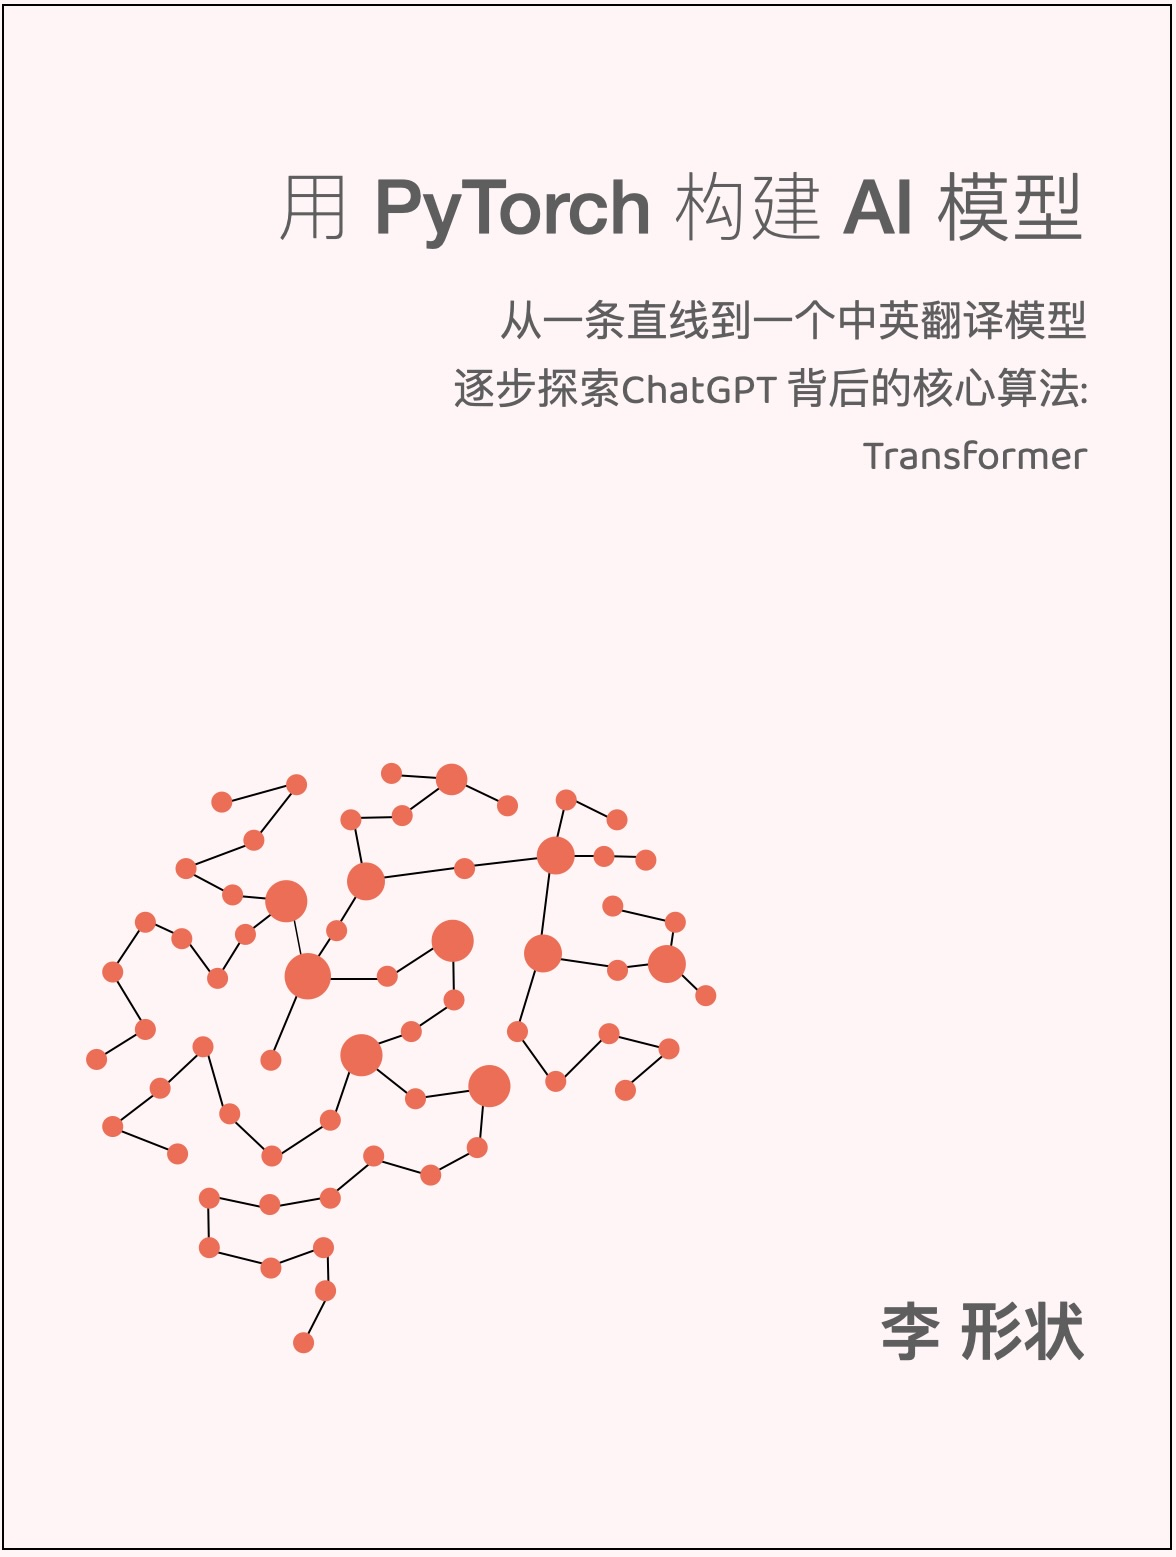
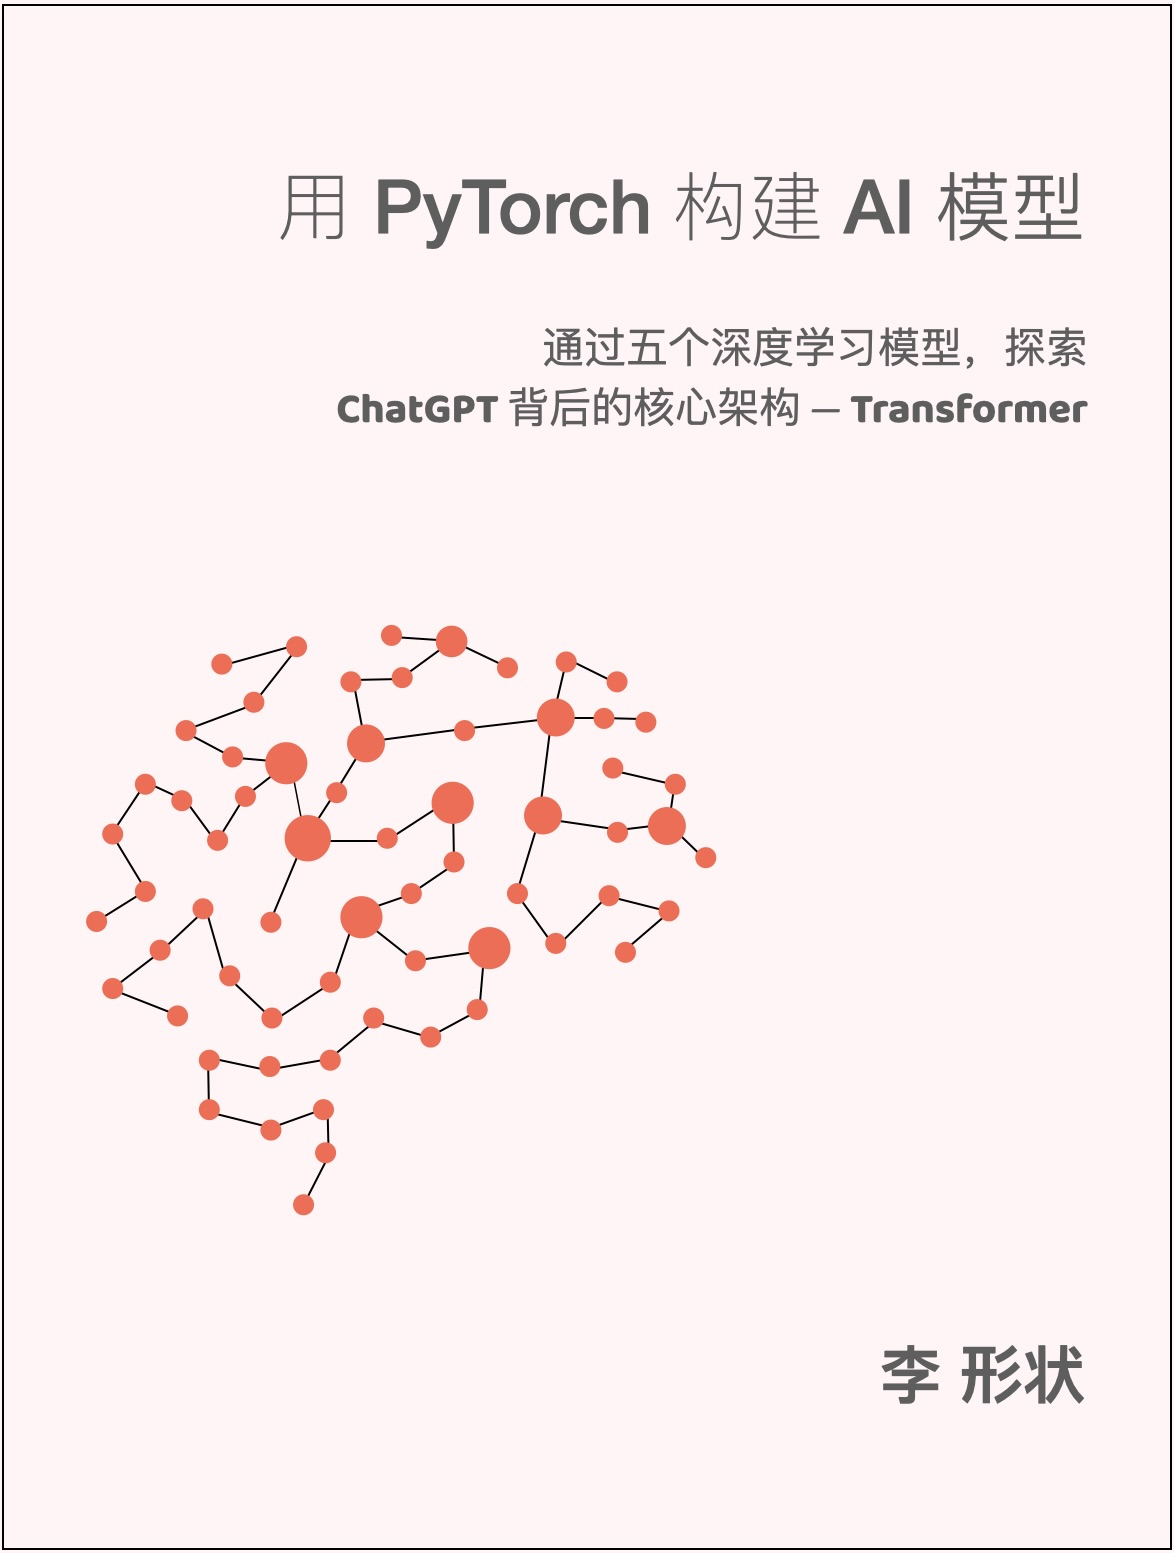
svg log changing

diff --git a/src/data/covers_ch.ts b/src/data/covers_ch.ts
@@ -9,7 +9,7 @@ export default [
   },
   { id: 1,
     name: "章节 1: 张量",
-    quote: "麦克斯韦方程组..., 当使用时间作为第四维来重新书写时，这组相对复杂的八个方程就会简化为一个单一的张量方程。这就是物理学家所说的 ‘美’。", 
+    quote: "麦克斯韦方程组...，当使用时间作为第四维来重新书写时，这组相对复杂的八个方程就会简化为一个单一的张量方程。这就是物理学家所说的 ‘美’。", 
     author: "― 加來 道雄，物理学家",
     image: "src/assets/tesseract.jpg",
     title: "一个四维立方体（或称为超立方体）的模型 | Robert Brook/Science Photo Library Art", 
@@ -50,7 +50,7 @@ export default [
   { id: 6,
     name: "章节 6: 一个卷积神经网络模型",
     quote: "婴儿在学会说话之前先学会观察世界。视觉能力的发展是机器实现通用智能的前提条件。",
-    author: "― 杨立昆，知名于 CNNs",
+    author: "― 杨立昆，成名于 CNNs",
     image: "src/assets/generated_girl.webp",
     title: "计算机生成的女孩，近距离看非常漂亮。CGI肖像渲染和3D渲染, 由 Creative Photo Corner 创作",
     description: "计算机视觉的发展已经相当成熟，而 ChatGPT 的出现让图片生成领域更近一步。比如这张由计算机生成的人脸图像，几乎可以以假乱真。这些进展正在改变我们与技术的互动方式，使虚拟助手和机器人变得更加自然和引人入胜。除了技术领域之外，它们还挑战了我们在数字时代对身份、真实性和现实的认知。"
@@ -58,7 +58,7 @@ export default [
   { id: 7,
     name: "章节 7: 模型背后的数学原理 (III)",
     quote: "人工智能将成为21世纪最具变革性的技术。它将影响到每个行业和我们生活的各个方面。",
-    author: "― 黄仁勋，NVIDIA 开创者",
+    author: "― 黄仁勋，NVIDIA 创立者",
     image: "src/assets/naushika.jpg",
     title: "《风之谷》中的娜乌西卡, 由 books_baking_broadway 创作",
     description: "左侧的图像展示了由AI生成的现实版娜乌西卡 (来自《风之谷的娜乌西卡》中的角色)。通过使用图像合成等计算机视觉技术，AI可以通过学习大量现实图像和动画图片，将动画角色转化为现实风格的人物图像。"
@@ -66,7 +66,7 @@ export default [
   { id: 8,
     name: "章节 8: 一个视觉 Transformer 模型",
     quote: "当动物第一次进化出眼睛时，动物的生命突然变得主动了。",
-    author: "― 李飞飞，ImageNet 开创者",
+    author: "― 李飞飞，ImageNet 创立者",
     image: "src/assets/patch_embedding.jpg",
     title: "个性化的文字艺术肖像，周年纪念艺术印刷，由Scribbly Goose创作",
     description: "这是一张由文字生成的结婚照，文字的明暗变化构成了这幅结婚照的主要轮廓。而文字又描叙着他们之间的故事，很有创意的一幅作品。文字可以组成一幅图片，那么图片是否可以看作一个个文字。在计算机视觉中，将一张图片分割成一个个单独的 “文字” ，然后像自然语言处理一样对这些“文字”进行编码分析。"

diff --git a/src/data/reference.ts b/src/data/reference.ts
@@ -1,7 +1,7 @@
 export default [
   // Paper reference:
   { id: 1,
-    name: "论文参考:",
+    name: "参考论文:",
     values: [
       { id: 1,
         title: "An Image is Worth 16x16 Words: Transformers for Image Recognition at Scale",
@@ -25,17 +25,17 @@ export default [
       },
       { id: 5, 
         title: "Neural Machine Translation by Jointly Learning to Align and Translate",
-        value: "published by Dzmitry Bahdanau.. on 1 Sep 2014.",
+        value: "published by Dzmitry Bahdanau, KyungHyun Cho, Yoshua Bengio on 1 Sep 2014.",
         link: "https://arxiv.org/pdf/1409.0473",
       },
       { id: 6, 
         title: "Gradient-Based Learning Applied to Document Recognition",
-        value: "published by Yann LeCun.. in 1998.",
-        link: "https://vision.stanford.edu/cs598_spring07/papers/Lecun98.pdf",
+        value: "published by Yann LeCun, Léon Bottou, Yoshua Bengio, and Patrick Haffner in 1998.",
+        link: "https://yann.lecun.com/exdb/publis/pdf/lecun-01a.pdf",
       },
       { id: 7, 
         title: "Backpropagation Applied to Handwritten Zip Code Recognition",
-        value: "published by Y. LeCun.. in 1989.",
+        value: "published by Y. LeCun, B. Boser, J. S. Denker, D. Henderson, R. E. Howard, W. Hubbard, L. D. Jackel in 1989.",
         link: "https://yann.lecun.com/exdb/publis/pdf/lecun-89e.pdf",
       },
       { id: 8, 

diff --git a/src/components/ReferGrid.tsx b/src/components/ReferGrid.tsx
@@ -1,7 +1,6 @@
 import { Box, Text, Stack, HStack, Link } from '@chakra-ui/react'
 import ReferLinks from '../entities/referLinks'
 
-
 interface Reference {
   id: number,
   name: string,
@@ -21,15 +20,14 @@ const ReferGrid = ({ section }: { section: Reference }) => {
             </Text>
             <Box>
               <Text as="span">
-                <Link
-                  href={p.link}
-                  as='i'
-                  textDecoration='underline'
+                <Link 
+                  href={p.link} 
+                  textDecoration='underline' 
                   textUnderlineOffset='3px'
-                  target='_blank'
+                  target='_blank' 
                   _hover={{ textColor: 'tomato' }}
                 >
-                  {p.title}
+                  <Text as='i' >{p.title}</Text>
                 </Link>
                   { p.value && <Text as='span'>{', '}{p.value}</Text>}
               </Text>

diff --git a/src/HomePage.tsx b/src/HomePage.tsx
@@ -29,7 +29,7 @@ function HomePage() {
       <Stack spacing={5} pb={5}>
         { showContent && <>
           <Image src={bookImage} alt='Book Cover'/>
-          <Text>哈啰! 为了向大家介绍人工智能, 我写了这个网站, 欢迎入坑。如果对ChatGPT这样的大语言模型感兴趣的话, 可以先了解下其背后的核心算法: Transformer。这里, 我通过构建5个基础模型, 逐步向大家介绍深度学习的常见架构, 以及模型背后的数学原理。</Text>
+          <Text>哈啰! 为了向大家介绍人工智能，我写了这个网站，欢迎入坑。如果你对 ChatGPT 这种大语言模型感兴趣的话, 可以先了解一下其背后的核心架构: Transformer。这里，我通过构建5个基础模型，逐步为大家介绍深度学习的常见架构，以及模型背后的数学原理。</Text>
           {!isLargeScreen && 
             <Button 
               bg='tomato'

diff --git a/src/components/NavBar.tsx b/src/components/NavBar.tsx
@@ -22,7 +22,7 @@ const NavBar = () => {
             color='tomato'
             _hover={{ color: '#E53E3E' }}
           >
-            AI &nbsp;WITH &nbsp;PYTORCH
+            AI &nbsp;<Text as='span' fontWeight='thin'>WITH</Text> &nbsp;PYTORCH
           </Text>
         </Link>
         <Text as='b' fontSize='xl' color='gray.500' fontWeight='light'>李 形状</Text>
